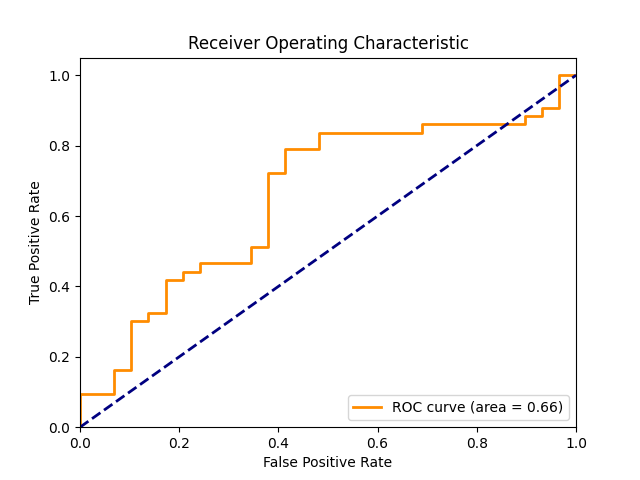
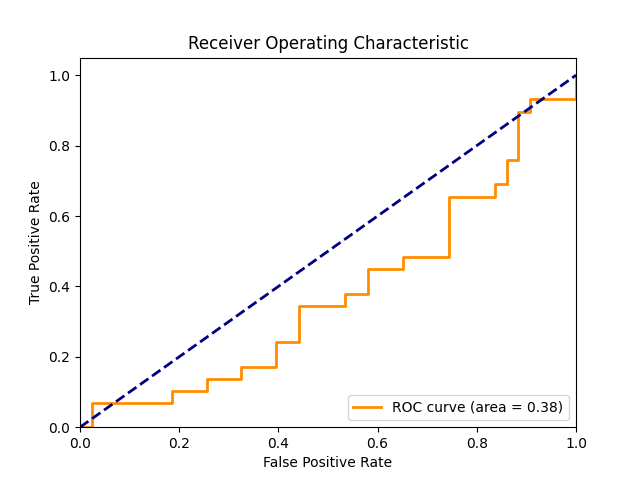
add dilated siamese net version short

diff --git a/src/network.py b/src/network.py
@@ -149,10 +149,10 @@ class testDeepSiamese(nn.Module):
     def forward(self, input1, input2, mode='train'):
         # Forward pass through the Siamese network
         output1_conv1 = F.relu(self.bn1(self.conv1(input1)))
-        # output1_pool1 = F.max_pool2d(output1_conv1, kernel_size=2, stride=2)
-        output1_conv2 = F.relu(self.bn2(self.conv2(output1_conv1)))
-        # output1_pool2 = F.max_pool2d(output1_conv2, kernel_size=2, stride=2)
-        output1_conv3 = F.relu(self.bn3(self.conv3(output1_conv2)))
+        output1_pool1 = F.max_pool2d(output1_conv1, kernel_size=2, stride=2)
+        output1_conv2 = F.relu(self.bn2(self.conv2(output1_pool1)))
+        output1_pool2 = F.max_pool2d(output1_conv2, kernel_size=2, stride=2)
+        output1_conv3 = F.relu(self.bn3(self.conv3(output1_pool2)))
         output1_pool3 = F.max_pool2d(output1_conv3, kernel_size=2, stride=2)
         
         output1_conv4 = F.relu(self.conv4(output1_pool3))
@@ -169,10 +169,10 @@ class testDeepSiamese(nn.Module):
         #######
         
         output2_conv1 = F.relu(self.bn1(self.conv1(input2)))
-        # output2_pool1 = F.max_pool2d(output2_conv1, kernel_size=2, stride=2)
-        output2_conv2 = F.relu(self.bn2(self.conv2(output2_conv1)))
-        # output2_pool2 = F.max_pool2d(output2_conv2, kernel_size=2, stride=2)
-        output2_conv3 = F.relu(self.bn3(self.conv3(output2_conv2)))
+        output2_pool1 = F.max_pool2d(output2_conv1, kernel_size=2, stride=2)
+        output2_conv2 = F.relu(self.bn2(self.conv2(output2_pool1)))
+        output2_pool2 = F.max_pool2d(output2_conv2, kernel_size=2, stride=2)
+        output2_conv3 = F.relu(self.bn3(self.conv3(output2_pool2)))
         output2_pool3 = F.max_pool2d(output2_conv3, kernel_size=2, stride=2)
         
         output2_conv4 = F.relu(self.conv4(output2_pool3))
@@ -189,15 +189,58 @@ class testDeepSiamese(nn.Module):
             return [output1_pool4, output2_pool4], [output1_pool5, output2_pool5], [output1_pool6, output2_pool6]
         elif mode == 'test':
             # return before the pooling layer to visualize them
-            return [output1_conv5, output2_conv5], [output1_conv7, output2_conv7], [output1_pool6, output2_pool6]
+            return [output1_conv5, output2_conv5], [output1_pool4, output2_pool4], [output1_pool6, output2_pool6]
+class DeepLab(nn.Module):
+    def __init__(self):
+        super(DeepLab, self).__init__()
+        
+        # Initial layers
+        self.conv1 = nn.Conv2d(1, 64, kernel_size=3, padding=1)
+        self.bn1 = nn.BatchNorm2d(64)
+        
+        self.conv2 = nn.Conv2d(64, 128, kernel_size=3, padding=1)
+        self.bn2 = nn.BatchNorm2d(128)
+        
+        self.conv3 = nn.Conv2d(128, 256, kernel_size=3, padding=1)
+        self.bn3 = nn.BatchNorm2d(256)
+        
+        # Dilated convolution layers
+        self.dilated_conv4_1 = nn.Conv2d(256, 512, kernel_size=3, dilation=2, padding=2)
+        self.bn4 = nn.BatchNorm2d(512)
+        
+        self.dilated_conv5_1 = nn.Conv2d(512, 1024, kernel_size=3, dilation=4, padding=4)
+        self.bn5 = nn.BatchNorm2d(1024)
+        
+        # Final embedding layers
+        self.embedding_conv = nn.Conv2d(1024, 1024, kernel_size=1)
+        self.bn_embedding = nn.BatchNorm2d(1024)
 
-class l2normalization(nn.Module):
-    def __init__(self,scale):
-
-        super(l2normalization, self).__init__()
-        self.scale = scale
-
-    def forward(self, x, dim=1):
-        '''out = scale * x / sqrt(\sum x_i^2)'''
-        # return self.scale * x * x.pow(2).sum(dim).clamp(min=1e-12).rsqrt().expand_as(x)
-        return (x - x.min()) / (x.max() - x.min())
+    def forward(self, input1, input2, mode='train'):
+        def siamese_branch(input):
+            # Initial layers
+            layer1_output = F.relu(self.bn1(self.conv1(input)))
+            pool1_output = F.max_pool2d(layer1_output, kernel_size=2, stride=2)
+            
+            layer2_output = F.relu(self.bn2(self.conv2(pool1_output)))
+            pool2_output = F.max_pool2d(layer2_output, kernel_size=2, stride=2)
+            
+            layer3_output = F.relu(self.bn3(self.conv3(pool2_output)))
+            
+            # Dilated convolutions
+            dilated4_output = F.relu(self.bn4(self.dilated_conv4_1(layer3_output)))
+            
+            dilated5_output = F.relu(self.bn5(self.dilated_conv5_1(dilated4_output)))
+            
+            # Embedding layer
+            embedding_output = F.relu(self.bn_embedding(self.embedding_conv(dilated5_output)))
+            
+            return [layer1_output, dilated4_output, embedding_output]
+        
+        # Siamese branches
+        output1 = siamese_branch(input1)
+        output2 = siamese_branch(input2)
+        
+        if mode == 'train':
+            return [output1[0], output2[0]], [output1[1], output2[1]], [output1[2], output2[2]]
+        elif mode == 'test':
+            return [output1[0], output2[0]], [output1[1], output2[1]], [output1[2], output2[2]]

diff --git a/src/main.py b/src/main.py
@@ -1,6 +1,6 @@
 import torch
 import torch.optim as optim
-from network import SimpleSiamese, complexSiameseExt, testDeepSiamese
+from network import SimpleSiamese, complexSiameseExt, testDeepSiamese, DeepLab
 from loss_functions import ConstractiveLoss, ConstractiveThresholdHingeLoss
 from loader import aertsDataset, remindDataset, balance_dataset
 from transformations import ShiftImage, RotateImage
@@ -51,6 +51,7 @@ def predict(siamese_net: nn.Module, test_loader: DataLoader, base_dir, device=to
     siamese_net.eval()  # Set the model to evaluation mode
     distances_list = []
     labels_list = []
+    print("Doing predictions...")
     with torch.no_grad():
         for index, batch in enumerate(test_loader): 
             batch: dict[str, torch.Tensor]
@@ -100,7 +101,7 @@ def predict(siamese_net: nn.Module, test_loader: DataLoader, base_dir, device=to
                 label = labels[batch_index].item()  # Get the label for the i-th pair
                 if model_type == 'MLO':
                     dist = (distance_1[batch_index], distance_2[batch_index], distance_3[batch_index])
-                    print(f"Pair has distances of: {dist[0].item()}, {dist[1].item()}, {dist[2].item()}, label: {label}")
+                    # print(f"Pair has distances of: {dist[0].item()}, {dist[1].item()}, {dist[2].item()}, label: {label}")
                     # tumor maps should only be calculated for dissimilar pairs
                     if label == 0:       
                         distance_map_2d_conv1 = return_upsampled_norm_distance_map(
@@ -327,7 +328,7 @@ if __name__ == "__main__":
                     image_ids=['t1_aligned_stripped'], save_dir=args.slice_dir,
                     skip=args.skip, tumor_sensitivity=0.30, transform=transform, load_slices=args.load_slices)
         subject_images = ConcatDataset([aertsImages, remindImages])
-        model_type = testDeepSiamese()
+        model_type = DeepLab()
     # balance subject_images based on label
     
     print(f"Total number of images: {len(subject_images)}")
